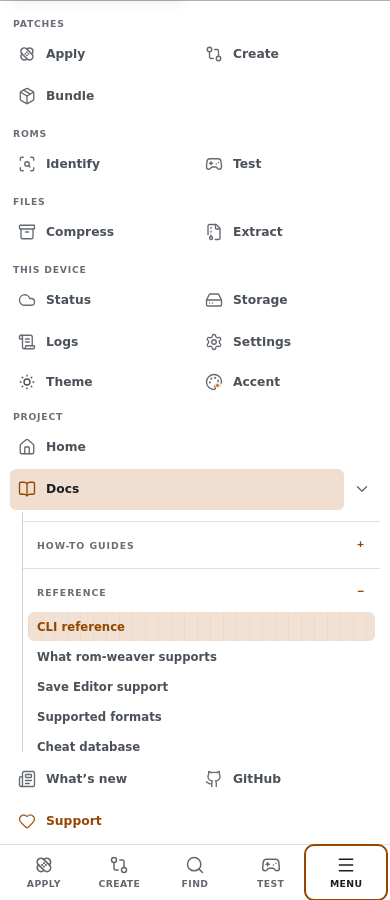
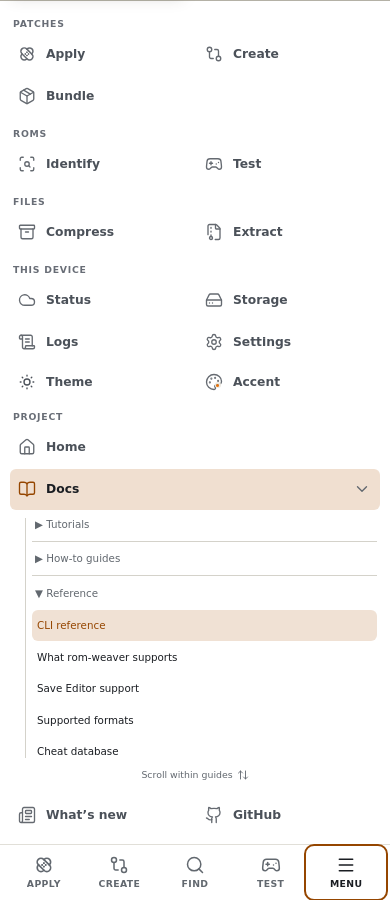
fix(docs): match the compact tree prototype

diff --git a/packages/rom-weaver-webapp/src/webapp/design-system/docs.css b/packages/rom-weaver-webapp/src/webapp/design-system/docs.css
@@ -47,11 +47,27 @@ html:has(.docs-workbench) {
 /* --- guide switcher --- */
 .rw-app .guide-nav {
   max-block-size: 240px;
-  margin: 2px 0 var(--sp-s) 12px;
+  padding-inline: 6px 3px;
+  margin: 8px 0 10px 15px;
   overflow-y: auto;
   overscroll-behavior-y: contain;
   scrollbar-width: thin;
   border-inline-start: 1px solid var(--seam);
+}
+.rw-app .guide-nav-hint {
+  display: flex;
+  gap: 4px;
+  align-items: center;
+  justify-content: center;
+  margin: 0 0 12px;
+  font-size: 0.625rem;
+  font-weight: 400;
+  font-stretch: 100%;
+  color: var(--ink-3);
+}
+.rw-app .guide-nav-hint > svg {
+  width: 12px;
+  height: 12px;
 }
 .rw-app .warp-rail-title {
   display: block;
@@ -72,32 +88,18 @@ html:has(.docs-workbench) {
 }
 /* The current guide's shelf SHOULD open when the reader changes pages. */
 .rw-app .guide-shelf {
-  padding: 3px 5px;
-}
-.rw-app .guide-shelf + .guide-shelf {
-  border-top: 1px solid var(--seam-soft);
+  border-block-end: 1px solid var(--seam);
 }
 .rw-app .guide-shelf > summary {
-  display: flex;
-  align-items: center;
-  min-height: 40px;
+  display: list-item;
+  padding: 9px 3px;
+  font-size: 0.6875rem;
+  font-weight: 400;
+  font-stretch: 100%;
+  color: var(--ink-3);
   cursor: pointer;
-  list-style: none;
+  list-style-position: inside;
   border-radius: var(--r-s);
-}
-.rw-app .guide-shelf > summary::-webkit-details-marker {
-  display: none;
-}
-.rw-app .guide-shelf > summary::after {
-  width: 1rem;
-  margin-inline-end: 7px;
-  font: 700 0.78rem / 1 var(--mono);
-  color: var(--thread-text);
-  text-align: center;
-  content: "+";
-}
-.rw-app .guide-shelf[open] > summary::after {
-  content: "−";
 }
 @media (hover: hover) {
   .rw-app .guide-shelf > summary:hover {
@@ -108,19 +110,12 @@ html:has(.docs-workbench) {
   background: var(--well);
 }
 .rw-app .guide-shelf-title {
-  flex: 1;
-  padding: 6px 9px;
+  display: inline;
   margin: 0;
-  font-size: 0.625rem;
-  font-weight: 700;
-  font-stretch: 86%;
-  color: var(--ink-4);
-  text-transform: uppercase;
-  letter-spacing: 0.1em;
+  font: inherit;
 }
 .rw-app .guide-nav-list {
   display: grid;
-  gap: 1px;
   padding: 0;
   margin: 0;
   list-style: none;
@@ -130,12 +125,12 @@ html:has(.docs-workbench) {
 }
 .rw-app .guide-nav-list a {
   display: block;
-  padding: 7px 9px;
-  font-size: 0.78rem;
-  font-weight: 600;
-  font-stretch: 92%;
-  line-height: 1.3;
-  color: var(--ink-2);
+  padding: 8px 5px;
+  font-size: 0.6875rem;
+  font-weight: 400;
+  font-stretch: 100%;
+  line-height: 1.5;
+  color: var(--ink);
   text-decoration: none;
   border-radius: var(--r-s);
 }
@@ -151,7 +146,7 @@ html:has(.docs-workbench) {
 }
 .rw-app .guide-nav-list a[aria-current="page"] {
   color: var(--thread-text);
-  background: var(--warp-lines), color-mix(in oklab, var(--thread) 10%, var(--well));
+  background: color-mix(in oklab, var(--thread) 10%, var(--well));
 }
 
 /* --- warp rail: the signature --- */

diff --git a/packages/rom-weaver-webapp/src/webapp/docs-page.tsx b/packages/rom-weaver-webapp/src/webapp/docs-page.tsx
@@ -1,5 +1,5 @@
 import "./design-system/docs-route.css";
-import { ArrowUpToLine, ChevronLeft, ChevronRight, ListTree } from "lucide-react";
+import { ArrowUpDown, ArrowUpToLine, ChevronLeft, ChevronRight, ListTree } from "lucide-react";
 import { useCallback, useEffect, useLayoutEffect, useMemo, useReducer, useRef, useState } from "react";
 import { DOC_PAGE_LOADERS, DOC_ROUTES } from "virtual:rom-weaver-docs";
 import { copyToClipboard } from "../lib/clipboard.ts";
@@ -302,35 +302,40 @@ const DocsNav = ({
     return () => observer.disconnect();
   }, [currentSlug, openShelves]);
   return (
-    <nav aria-label="Docs" className="guide-nav" ref={navRef}>
-      {DOC_SHELVES.map((shelf) => (
-        <details
-          className="guide-shelf"
-          key={shelf.title}
-          onToggle={(event) => onShelfToggle(shelf.title, event.currentTarget.open)}
-          open={openShelves[shelf.title]}
-        >
-          <summary>
-            <h3 className="guide-shelf-title">{shelf.title}</h3>
-          </summary>
-          <ul className="guide-nav-list">
-            {shelf.routes.map((entry) => (
-              <li key={entry.slug}>
-                <a
-                  aria-current={entry.slug === currentSlug ? "page" : undefined}
-                  href={`/${entry.slug}`}
-                  onClick={onNavigate}
-                  onFocus={() => warmDocsHtml(entry.slug)}
-                  onPointerEnter={() => warmDocsHtml(entry.slug)}
-                >
-                  {entry.label}
-                </a>
-              </li>
-            ))}
-          </ul>
-        </details>
-      ))}
-    </nav>
+    <>
+      <nav aria-label="Docs" className="guide-nav" ref={navRef}>
+        {DOC_SHELVES.map((shelf) => (
+          <details
+            className="guide-shelf"
+            key={shelf.title}
+            onToggle={(event) => onShelfToggle(shelf.title, event.currentTarget.open)}
+            open={openShelves[shelf.title]}
+          >
+            <summary>
+              <h3 className="guide-shelf-title">{shelf.title}</h3>
+            </summary>
+            <ul className="guide-nav-list">
+              {shelf.routes.map((entry) => (
+                <li key={entry.slug}>
+                  <a
+                    aria-current={entry.slug === currentSlug ? "page" : undefined}
+                    href={`/${entry.slug}`}
+                    onClick={onNavigate}
+                    onFocus={() => warmDocsHtml(entry.slug)}
+                    onPointerEnter={() => warmDocsHtml(entry.slug)}
+                  >
+                    {entry.label}
+                  </a>
+                </li>
+              ))}
+            </ul>
+          </details>
+        ))}
+      </nav>
+      <p className="guide-nav-hint">
+        Scroll within guides <ArrowUpDown aria-hidden="true" />
+      </p>
+    </>
   );
 };
 

diff --git a/packages/rom-weaver-webapp/src/webapp/design-system/masthead.css b/packages/rom-weaver-webapp/src/webapp/design-system/masthead.css
@@ -410,6 +410,12 @@
 .rw-app .nav-docs-toggle:active {
   background: var(--plate-2);
 }
+.rw-app .nav-docs-summary:has(.nav-row[aria-current="page"]) {
+  background: color-mix(in oklab, var(--thread) 12%, var(--well));
+}
+.rw-app .nav-docs-summary .nav-row[aria-current="page"] {
+  background: transparent;
+}
 
 .rw-app .nav-row svg {
   flex: none;
@@ -1118,8 +1124,16 @@
     padding-block: var(--sp-m);
   }
   .rw-app .side-rail .nav-row {
+    gap: 11px;
     min-block-size: 32px;
-    padding-block: 6px;
+    padding: 7px 9px;
+    font-size: 0.765rem;
+    font-weight: 400;
+    font-stretch: 100%;
+  }
+  .rw-app .side-rail .nav-row > svg {
+    width: 16px;
+    height: 16px;
   }
   .rw-app .app > :not(.side-col) {
     grid-column: 2;
